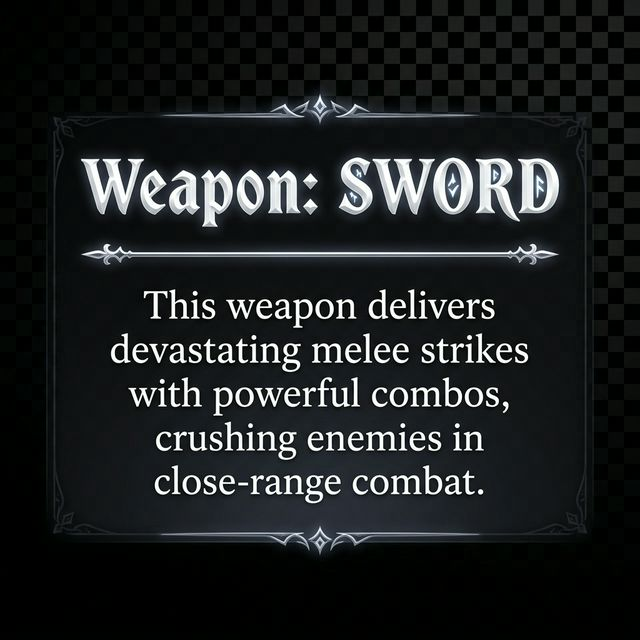
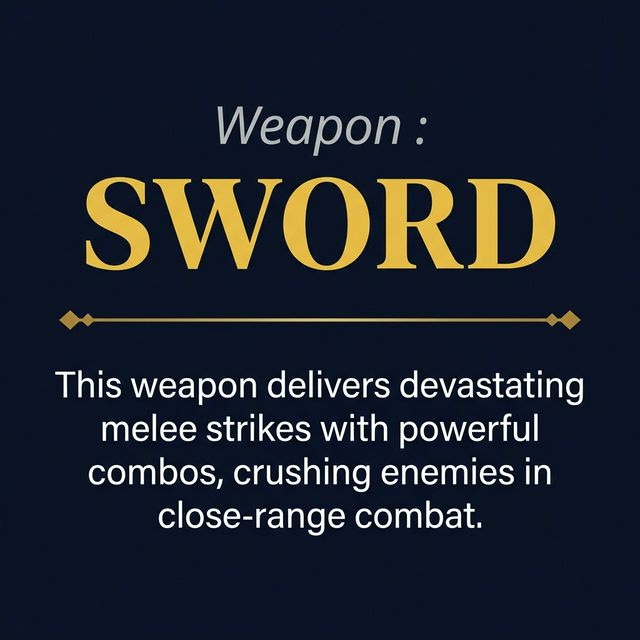
fix(characters): dark bg for weapon info, v2 images, resilient API

diff --git a/src/app/api/characters/route.ts b/src/app/api/characters/route.ts
@@ -5,25 +5,52 @@ import config from '@payload-config'
 export async function GET() {
   try {
     const payload = await getPayload({ config })
-    const result = await payload.find({
-      collection: 'characters',
-      where: { visible: { equals: true } },
-      sort: 'sortOrder',
-      limit: 20,
-    })
+    
+    // Query with raw SQL since DB schema may differ from CMS schema
+    // Fall back gracefully with CMS find
+    let characters: Array<{
+      id: number;
+      name: string;
+      portrait: string | null;
+      infoImage: string | null;
+      backgroundImage: string | null;
+      icon: string | null;
+    }> = []
+    
+    try {
+      const result = await payload.find({
+        collection: 'characters',
+        where: { visible: { equals: true } },
+        sort: 'sortOrder',
+        limit: 20,
+      })
 
-    const characters = result.docs.map((char) => ({
-      id: char.id,
-      name: char.name || '',
-      portrait: typeof char.portrait === 'object' && char.portrait ? (char.portrait as { url?: string }).url || null : null,
-      infoImage: typeof char.infoImage === 'object' && char.infoImage ? (char.infoImage as { url?: string }).url || null : null,
-      backgroundImage: typeof char.backgroundImage === 'object' && char.backgroundImage ? (char.backgroundImage as { url?: string }).url || null : null,
-      icon: typeof char.icon === 'object' && char.icon ? (char.icon as { url?: string }).url || null : null,
-    }))
+      characters = result.docs.map((char) => {
+        const extractUrl = (field: unknown): string | null => {
+          if (typeof field === 'object' && field && 'url' in (field as Record<string, unknown>)) {
+            return (field as { url: string }).url || null
+          }
+          return null
+        }
+
+        return {
+          id: char.id as number,
+          name: (char.name || (char as Record<string, unknown>).name_en || '') as string,
+          portrait: extractUrl(char.portrait) || extractUrl((char as Record<string, unknown>).portrait),
+          infoImage: extractUrl(char.infoImage),
+          backgroundImage: extractUrl(char.backgroundImage) || extractUrl((char as Record<string, unknown>).backgroundImage),
+          icon: extractUrl(char.icon),
+        }
+      })
+    } catch (findError) {
+      console.error('Characters find error (schema mismatch?), trying fallback:', findError)
+      // Return empty — component will use mockup data
+      characters = []
+    }
 
     return NextResponse.json({ characters })
   } catch (error) {
     console.error('Characters API error:', error)
-    return NextResponse.json({ error: 'Failed to fetch characters' }, { status: 500 })
+    return NextResponse.json({ characters: [] })
   }
 }

diff --git a/src/app/globals.css b/src/app/globals.css
@@ -1070,6 +1070,12 @@
   /* Weapon info image */
   .char-weapon-info-img-wrapper {
     width: 100%;
+    background: rgba(10, 14, 33, 0.75);
+    -webkit-backdrop-filter: blur(12px);
+    backdrop-filter: blur(12px);
+    border-radius: 16px;
+    padding: 1.5rem 2rem;
+    border: 1px solid rgba(255,255,255,0.08);
   }
 
   .char-weapon-info-img {
